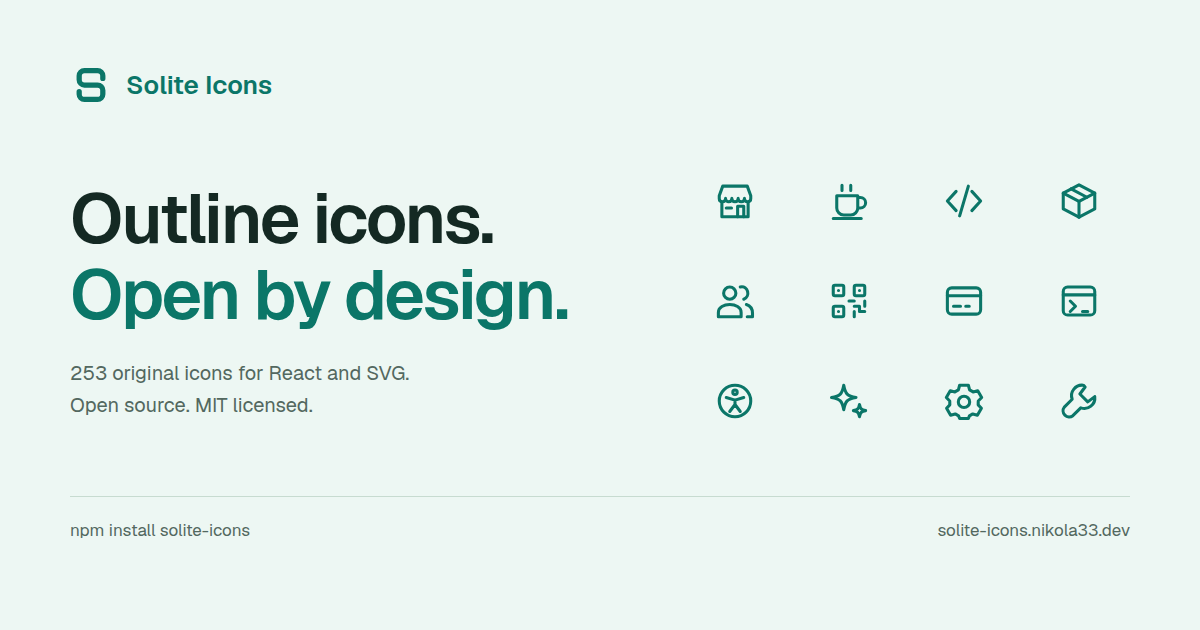
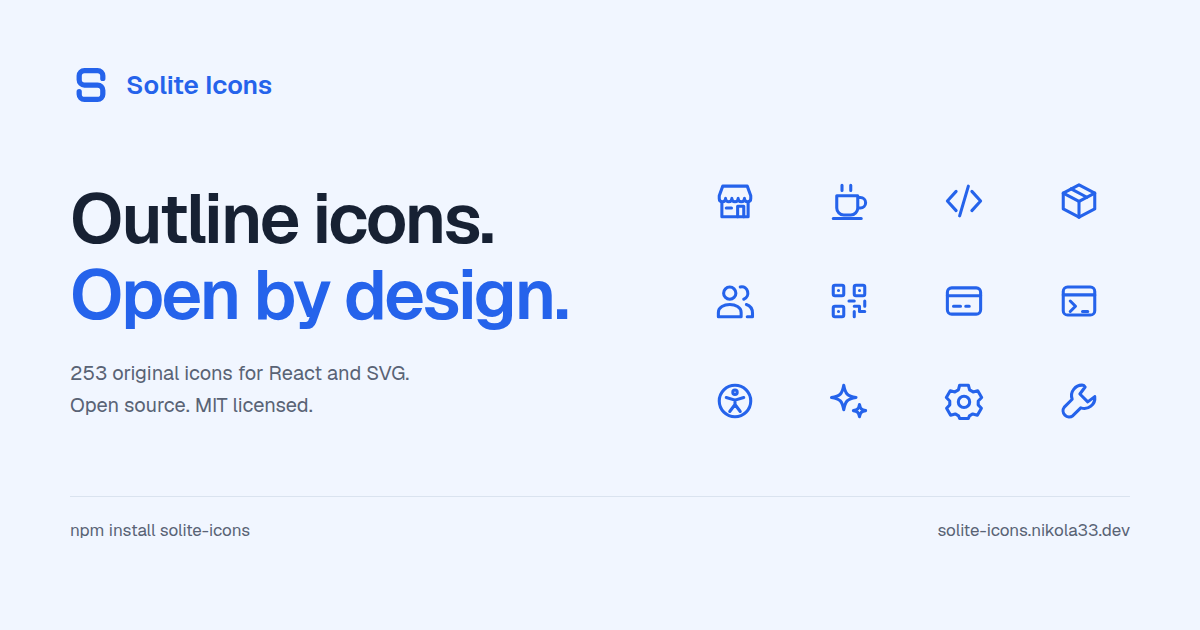
style: restore blue accents and neutral documentation backgrounds

diff --git a/website/app/global.css b/website/app/global.css
@@ -4,46 +4,46 @@
 @import "fumadocs-ui/css/preset.css";
 @source "../node_modules/fumadocs-ui/dist/**/*.js";
 :root {
-  --color-fd-primary: #0b7668;
+  --color-fd-primary: #2563eb;
   --color-fd-primary-foreground: #fff;
   --color-fd-background: #fff;
-  --color-fd-foreground: #142923;
-  --color-fd-muted: #f2f7f4;
-  --color-fd-muted-foreground: #53685f;
-  --color-fd-secondary: #edf7f3;
-  --color-fd-secondary-foreground: #142923;
-  --color-fd-border: #d9e5de;
+  --color-fd-foreground: #172133;
+  --color-fd-muted: #f6f7f9;
+  --color-fd-muted-foreground: #596375;
+  --color-fd-secondary: #f1f6ff;
+  --color-fd-secondary-foreground: #172133;
+  --color-fd-border: #dde2ea;
   --color-fd-card: #fff;
-  --color-fd-card-foreground: #142923;
+  --color-fd-card-foreground: #172133;
   --color-fd-popover: #fff;
-  --color-fd-popover-foreground: #142923;
-  --color-fd-accent: #edf7f3;
-  --color-fd-accent-foreground: #142923;
-  --color-fd-ring: #0b7668;
+  --color-fd-popover-foreground: #172133;
+  --color-fd-accent: #f1f6ff;
+  --color-fd-accent-foreground: #172133;
+  --color-fd-ring: #2563eb;
   --font-sans: "Geist Variable", "Geist", "Segoe UI", sans-serif;
 }
 .dark {
-  --color-fd-primary: #8ee3c4;
-  --color-fd-primary-foreground: #102c22;
-  --color-fd-background: #101c18;
-  --color-fd-foreground: #e6f0e9;
-  --color-fd-muted: #172820;
-  --color-fd-muted-foreground: #abc1b4;
-  --color-fd-secondary: #20382c;
-  --color-fd-secondary-foreground: #e6f0e9;
-  --color-fd-border: #304b3c;
-  --color-fd-card: #172820;
-  --color-fd-card-foreground: #e6f0e9;
-  --color-fd-popover: #172820;
-  --color-fd-popover-foreground: #e6f0e9;
-  --color-fd-accent: #20382c;
-  --color-fd-accent-foreground: #e6f0e9;
-  --color-fd-ring: #8ee3c4;
+  --color-fd-primary: #82aaff;
+  --color-fd-primary-foreground: #0d1933;
+  --color-fd-background: #17181b;
+  --color-fd-foreground: #e9eaed;
+  --color-fd-muted: #202226;
+  --color-fd-muted-foreground: #b4b8c2;
+  --color-fd-secondary: #25282e;
+  --color-fd-secondary-foreground: #e9eaed;
+  --color-fd-border: #343840;
+  --color-fd-card: #202226;
+  --color-fd-card-foreground: #e9eaed;
+  --color-fd-popover: #202226;
+  --color-fd-popover-foreground: #e9eaed;
+  --color-fd-accent: #25282e;
+  --color-fd-accent-foreground: #e9eaed;
+  --color-fd-ring: #82aaff;
 }
 .dark #nd-sidebar {
-  --color-fd-muted: #172820;
-  --color-fd-secondary: #20382c;
-  --color-fd-muted-foreground: #abc1b4;
+  --color-fd-muted: #202226;
+  --color-fd-secondary: #25282e;
+  --color-fd-muted-foreground: #b4b8c2;
 }
 body {
   display: flex;
@@ -310,15 +310,15 @@ body {
   align-items: center;
   justify-content: center;
   gap: 14px;
-  background-color: #edf7f3;
-  color: #142923;
-  background-image: radial-gradient(#c7dbd0 0.7px, transparent 0.7px);
+  background-color: #f1f6ff;
+  color: #172133;
+  background-image: radial-gradient(#dae3ef 0.7px, transparent 0.7px);
   background-size: 16px 16px;
 }
 .playground-canvas[data-dark="true"] {
-  background-color: #14291f;
-  background-image: radial-gradient(#355344 0.7px, transparent 0.7px);
-  color: #e6f0e9;
+  background-color: #181f2a;
+  background-image: radial-gradient(#303a4c 0.7px, transparent 0.7px);
+  color: #e9eaed;
 }
 .preview-grid {
   width: 96px;
@@ -337,8 +337,11 @@ body {
   display: block;
   font-size: 11px;
   font-weight: 400;
-  opacity: 0.6;
+  color: #596375;
   margin-top: 3px;
+}
+.playground-canvas[data-dark="true"] small {
+  color: #b4b8c2;
 }
 .snippet {
   position: relative;

diff --git a/website/components/docs-intro.tsx b/website/components/docs-intro.tsx
@@ -4,7 +4,7 @@ import { CopyButton } from "./copy-button";
 import { SoliteLogo } from "./solite-logo";
 
 // THESIS: The drawings lead a practical, open-source introduction.
-// OWN-WORLD: Teal ink, mint specimens, white reading space, rounded open geometry.
+// OWN-WORLD: Blue accents, neutral surfaces, white reading space, rounded open geometry.
 // STORY: Find an icon, install from npm, and use it in a real interface.
 // FIRST VIEWPORT: Brand, large headline, install command, browse and source actions.
 // FORM: Drawing specimen, candidate 3, direction seed 6d4b93e5.

diff --git a/website/components/icon-playground.tsx b/website/components/icon-playground.tsx
@@ -22,7 +22,7 @@ export function IconPlayground() {
   const [choice, setChoice] = useState("ShopIcon");
   const [size, setSize] = useState(32);
   const [stroke, setStroke] = useState(1.75);
-  const [color, setColor] = useState("#0b7668");
+  const [color, setColor] = useState("#2563eb");
   const [dark, setDark] = useState(false);
   const { Icon } = choices.find((item) => item.name === choice) ?? choices[0];
   const code = `import { ${choice} } from "solite-icons";\n\n<${choice} size={${size}} strokeWidth={${stroke}} color="${color}" />`;

diff --git a/scripts/render-benchmark.py b/scripts/render-benchmark.py
@@ -15,9 +15,9 @@ DATA = ROOT / "docs/benchmarks/2026-10-27.json"
 OUTPUT = ROOT / "assets/benchmark-2026-10-27.png"
 snapshot = json.loads(DATA.read_text())
 libraries = snapshot["libraries"]
-colors = ["#0b7668", "#536a7f", "#b68735", "#a0aaa5"]
-ink = "#142923"
-muted = "#53685f"
+colors = ["#2563eb", "#64748b", "#b68735", "#a0a8b4"]
+ink = "#172133"
+muted = "#596375"
 
 plt.rcParams.update({
     "font.family": "DejaVu Sans",
@@ -48,14 +48,14 @@ for index, library in enumerate(libraries):
                   color=colors[index], zorder=3)
     ax.bar_label(bars, labels=[f"{value:.2f}" for value in values],
                  padding=5, fontsize=12.5, color=ink)
-    suffix = " · 24px outline" if library["name"] == "@heroicons/react" else " · Feather" if library["name"] == "react-icons" else ""
+    suffix = {"@heroicons/react": " · 24px outline", "react-icons": " · Feather"}.get(library["name"], "")
     handles.append((bars[0], f"{library['label']} {library['version']}{suffix}"))
 ax.set_xticks(x, [f"{count} icon" + ("s" if count != 1 else "") for count in snapshot["counts"]])
 ax.set_ylabel("Gzipped JavaScript (KiB)", labelpad=15)
 ax.set_ylim(0, 7.2)
 ax.set_yticks([0, 2, 4, 6])
 ax.tick_params(length=0, pad=9)
-ax.grid(axis="y", color="#dce5df", linewidth=0.8, zorder=0)
+ax.grid(axis="y", color="#e0e4eb", linewidth=0.8, zorder=0)
 fig.text(0.07, 0.783, "Browser bundle", fontsize=18, weight="bold")
 fig.legend([h[0] for h in handles], [h[1] for h in handles],
            loc="center", bbox_to_anchor=(0.52, 0.842), ncol=2,
@@ -71,7 +71,7 @@ storage.set_xlim(0, 94)
 storage.set_xticks([0, 30, 60, 90])
 storage.set_xlabel("Unpacked package (MiB)", labelpad=8)
 storage.tick_params(length=0, pad=9)
-storage.grid(axis="x", color="#dce5df", linewidth=0.8, zorder=0)
+storage.grid(axis="x", color="#e0e4eb", linewidth=0.8, zorder=0)
 storage.bar_label(bars, labels=[f"{value:.2f}" for value in values], padding=7, fontsize=12.5, color=ink)
 fig.text(0.07, 0.37, "Full install footprint", fontsize=18, weight="bold")
 fig.text(0.07, 0.085, "Packages contain different-sized collections. Disk footprint is not browser payload.", fontsize=12.5, color=muted)

diff --git a/DESIGN.md b/DESIGN.md
@@ -2,14 +2,14 @@
 name: Solite Icons
 description: Open-source outline icons, presented as a drawing specimen.
 colors:
-  primary: "#0b7668"
-  primary-dark: "#8ee3c4"
-  mint: "#edf7f3"
-  ink: "#142923"
-  muted-ink: "#53685f"
+  primary: "#2563eb"
+  primary-dark: "#82aaff"
+  specimen: "#f1f6ff"
+  ink: "#172133"
+  muted-ink: "#596375"
   paper: "#ffffff"
-  dark-paper: "#101c18"
-  dark-panel: "#172820"
+  dark-paper: "#17181b"
+  dark-panel: "#202226"
 typography:
   display:
     fontFamily: "Geist Variable, Geist, Segoe UI, sans-serif"
@@ -60,11 +60,11 @@ components:
 
 ## Overview
 
-The collection is a drawing specimen. Real glyphs, their names, and their geometry carry the identity. Teal open geometry and an S mark give Solite a recognizable signature while the documentation remains a reading tool.
+The collection is a drawing specimen. Real glyphs, their names, and their geometry carry the identity. Blue open geometry and an S mark give Solite a recognizable signature while the documentation remains a reading tool.
 
 ## Colors
 
-Use teal for actions and selection, mint for icon specimens, and white for reading. Dark mode uses green-black surfaces and a light mint accent. Secondary copy must maintain 4.5:1 contrast. Selected controls need a border or shape cue as well as color.
+Use the original blue accent for actions, selection, and icon specimens, with white reading space and neutral gray panels. Dark mode uses neutral charcoal surfaces and a light blue accent. Secondary copy must maintain 4.5:1 contrast. Selected controls need a border or shape cue as well as color.
 
 ## Typography
 
@@ -84,9 +84,9 @@ The S mark uses rounded open geometry, with uniform strokes and generous negativ
 
 ## Components
 
-Primary buttons use teal with white text, or mint with dark text in dark mode. Secondary buttons use the page background and a border. All controls have visible keyboard focus. The install command includes the existing clipboard control and its copied/error announcements. Icon tiles preserve names and pressed state. Navigation shows the decorative mark beside a text wordmark.
+Primary buttons use blue with white text, or light blue with dark text in dark mode. Secondary buttons use the page background and a border. All controls have visible keyboard focus. The install command includes the existing clipboard control and its copied/error announcements. Icon tiles preserve names and pressed state. Navigation shows the decorative mark beside a text wordmark.
 
-The playground canvas has its own light/dark control, independent of the page theme. Light canvas stays pale mint with dark text even when the surrounding documentation is dark.
+The playground canvas has its own light/dark control, independent of the page theme. Light canvas stays pale blue with dark text even when the surrounding documentation is dark.
 
 ## Do's and Don'ts
 

diff --git a/website/README.md b/website/README.md
@@ -79,8 +79,8 @@ The image lives at `assets/react-preview.png` and is included in the package so 
 
 ## Brand assets
 
-The approved S mark was developed with the built-in ImageGen tool. Concepts, the refined PNG, and exact prompts are in `assets/brand/` at the repository root. The clean SVG, Apple icon, and social image served by the website are in `public/brand/`. `components/solite-logo.tsx` uses the same SVG path with `currentColor` for theme support. Keep that path synchronized when changing the mark.
+The approved S mark was developed with the built-in ImageGen tool. Historical teal concepts, the refined concept PNG, and exact prompts are in `assets/brand/` at the repository root. The clean SVG, Apple icon, and social image served by the website are in `public/brand/`. `components/solite-logo.tsx` uses the same SVG path with `currentColor` for theme support. Keep that path synchronized when changing the mark.
 
-`DESIGN.md` at the repository root records the teal drawing-specimen identity. The README uses an absolute logo URL so the image also resolves on npm without depending on a local package asset.
+`DESIGN.md` at the repository root records the blue drawing-specimen identity. The README uses an absolute logo URL so the image also resolves on npm without depending on a local package asset.
 
 The root metadata prefixes favicon and sharing-image paths with `DOCS_BASE_PATH`. For an alternate host, set `DOCS_SITE_URL` as well, for example `DOCS_SITE_URL=https://nikola-limpet.github.io DOCS_BASE_PATH=/solite-icons npm --prefix website run build`.

diff --git a/PRODUCT.md b/PRODUCT.md
@@ -26,7 +26,7 @@ An open-source icon library with original rounded outline drawings and a browsab
 
 ## Brand Commitments
 
-The name remains Solite Icons. The maintainer requested a new logo and explicitly chose a different visual identity rather than retaining the existing blue style on 2026-10-27. Exact visual choices are being developed for review.
+The name remains Solite Icons. The maintainer requested a new logo and explicitly chose a different visual identity rather than retaining the existing blue style on 2026-10-27. The maintainer subsequently requested a return to the original blue accent and neutral page backgrounds. Retain the new S logo, documentation layout, and open-source content. This supersedes the earlier teal palette.
 
 ## Evidence on Hand
 
